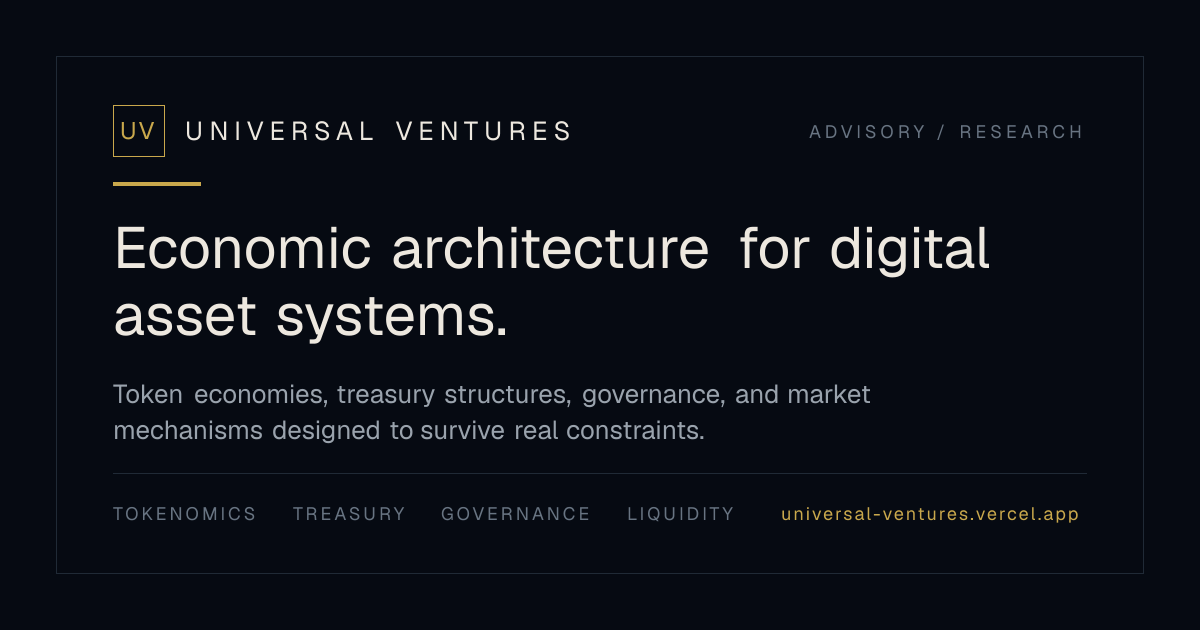
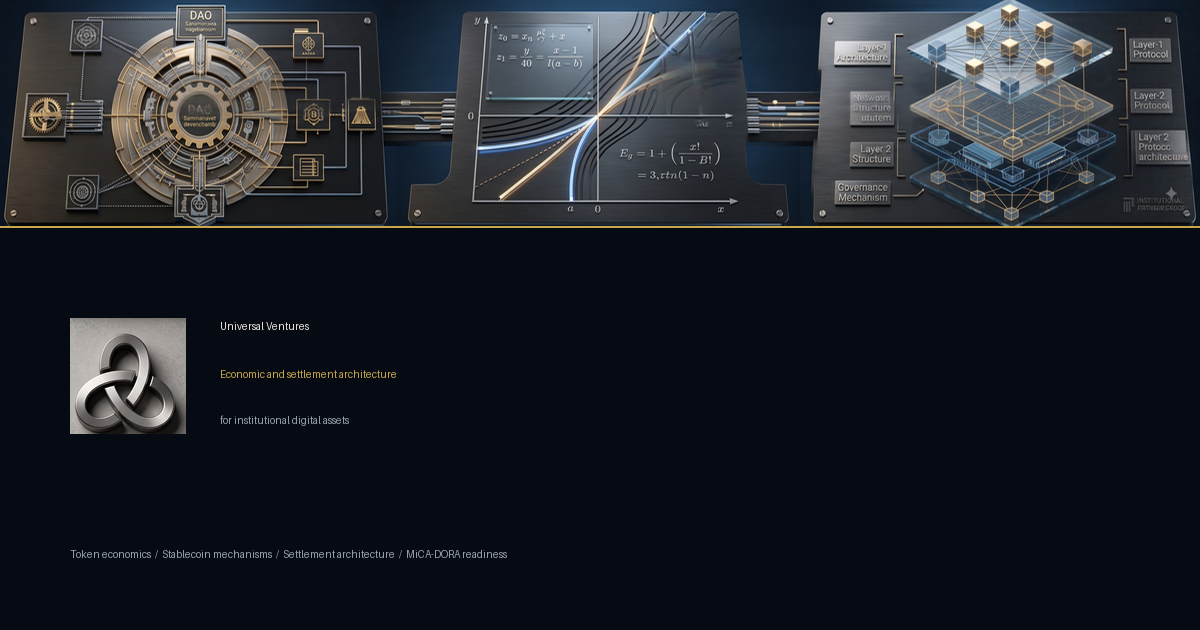
Rebrand Universal Ventures site assets

diff --git a/app/layout.tsx b/app/layout.tsx
@@ -27,11 +27,13 @@ const jetBrainsMono = JetBrains_Mono({
 });
 
 const basePath = process.env.PAGES_BASE_PATH || "";
+const normalizedSiteUrl = siteConfig.url.replace(/\/$/, "");
+const ogImageUrl = `${normalizedSiteUrl}/og-image.png`;
 
 export const metadata: Metadata = {
   metadataBase: new URL(siteConfig.url),
   title: {
-    default: `${siteConfig.name} — Economic & Settlement Architecture for Institutional Digital Assets`,
+    default: `${siteConfig.name} - Economic & Settlement Architecture for Institutional Digital Assets`,
     template: `%s | ${siteConfig.name}`,
   },
   description: siteConfig.description,
@@ -57,7 +59,7 @@ export const metadata: Metadata = {
     "token due diligence",
   ],
   openGraph: {
-    title: `${siteConfig.name} — Economic & Settlement Architecture for Institutional Digital Assets`,
+    title: `${siteConfig.name} - Economic & Settlement Architecture for Institutional Digital Assets`,
     description: siteConfig.description,
     url: siteConfig.url,
     siteName: siteConfig.name,
@@ -65,18 +67,18 @@ export const metadata: Metadata = {
     locale: "en_US",
     images: [
       {
-        url: `${basePath}/og-image.png`,
+        url: ogImageUrl,
         width: 1200,
         height: 630,
-        alt: "Universal Ventures — Economic and settlement architecture for institutional digital assets",
+        alt: "Universal Ventures systems architecture cover image",
       },
     ],
   },
   twitter: {
     card: "summary_large_image",
-    title: `${siteConfig.name} — Economic & Settlement Architecture for Institutional Digital Assets`,
+    title: `${siteConfig.name} - Economic & Settlement Architecture for Institutional Digital Assets`,
     description: siteConfig.description,
-    images: [`${basePath}/og-image.png`],
+    images: [ogImageUrl],
   },
   icons: {
     icon: `${basePath}/icon.svg`,
@@ -94,7 +96,7 @@ function StructuredData() {
         name: siteConfig.name,
         url: siteConfig.url,
         description: siteConfig.description,
-        logo: `${siteConfig.url}/icon.svg`,
+        logo: `${siteConfig.url}/brand/universal-ventures-mark.png`,
         sameAs: socialLinks.map((link) => link.href),
         founder: {
           "@type": "Person",
@@ -171,7 +173,7 @@ export default function RootLayout({
           Skip to content
         </a>
         <div className="flex min-h-screen flex-col">
-          <Navigation />
+          <Navigation assetBasePath={basePath} />
           <main id="main-content" className="flex-1 pt-16">
             {children}
           </main>

diff --git a/app/page.tsx b/app/page.tsx
@@ -1,4 +1,5 @@
 import Link from "next/link";
+import { HeroBrandPlate } from "@/components/brand-visuals";
 import {
   ArtifactInfrastructure,
   BuyerOutcomes,
@@ -10,13 +11,14 @@ import {
   WhySystemsBreak,
 } from "@/components/evidence-sections";
 import { HeroSystemMap } from "@/components/system-visuals";
+import { assetPath } from "@/lib/asset-path";
 import { heroBrief, positioning } from "@/lib/content-model";
 
 export default function Home() {
   return (
     <>
       <section className="border-b border-line bg-surface-muted/45">
-        <div className="mx-auto grid min-h-[calc(100vh-7rem)] max-w-6xl gap-12 px-6 py-16 md:grid-cols-[0.9fr_1.1fr] md:items-center md:px-10 md:py-20 lg:px-16">
+        <div className="mx-auto grid min-h-[calc(100vh-7rem)] max-w-6xl gap-12 px-6 py-16 md:grid-cols-[0.9fr_1.1fr] md:items-start md:px-10 md:py-20 lg:px-16">
           <div>
             <p className="font-mono text-xs uppercase tracking-[0.18em] text-accent">
               Economic &amp; Settlement Architecture for Institutional Digital Assets
@@ -27,7 +29,17 @@ export default function Home() {
             <p className="mt-8 max-w-2xl text-xl leading-8 text-muted md:text-2xl md:leading-9">
               {positioning.subheadline}
             </p>
+          </div>
 
+          <div className="grid gap-4 md:row-span-2 md:self-center">
+            <HeroBrandPlate
+              coverSrc={assetPath("/brand/universal-ventures-cover.jpg")}
+              markSrc={assetPath("/brand/universal-ventures-mark.png")}
+            />
+            <HeroSystemMap />
+          </div>
+
+          <div>
             <div className="mt-8 grid gap-3">
               {heroBrief.map((item) => (
                 <div key={item.label} className="grid gap-2 border-t border-line pt-3 sm:grid-cols-[5rem_1fr]">
@@ -65,8 +77,6 @@ export default function Home() {
               </Link>
             </div>
           </div>
-
-          <HeroSystemMap />
         </div>
       </section>
 

diff --git a/components/Navigation.tsx b/components/Navigation.tsx
@@ -1,10 +1,13 @@
 "use client";
 
+import Image from "next/image";
 import Link from "next/link";
 import { ThemeToggle } from "@/components/theme-toggle";
 import { navItems, siteConfig } from "@/lib/site";
 
-export function Navigation() {
+export function Navigation({ assetBasePath = "" }: { assetBasePath?: string }) {
+  const brandMark = `${assetBasePath}/brand/universal-ventures-mark.png`;
+
   return (
     <header className="fixed inset-x-0 top-0 z-50 h-16 border-b border-line bg-background/90 backdrop-blur-xl">
       <div className="mx-auto flex h-full max-w-7xl items-center gap-5 px-5 md:px-8 lg:px-12">
@@ -13,11 +16,23 @@ export function Navigation() {
           className="flex min-w-0 shrink-0 items-center gap-3 no-underline"
           aria-label={`${siteConfig.name} home`}
         >
-          <span className="flex h-8 w-8 items-center justify-center border border-accent font-mono text-[0.66rem] font-semibold text-accent">
-            UV
+          <span className="flex h-8 w-8 overflow-hidden border border-accent/70 bg-surface">
+            <Image
+              src={brandMark}
+              alt=""
+              aria-hidden="true"
+              width={512}
+              height={512}
+              className="h-full w-full object-cover"
+            />
           </span>
-          <span className="hidden text-sm font-semibold tracking-normal text-foreground sm:block">
-            {siteConfig.name}
+          <span className="hidden grid-cols-1 leading-none sm:grid">
+            <span className="text-sm font-semibold tracking-normal text-foreground">
+              {siteConfig.name}
+            </span>
+            <span className="mt-1 font-mono text-[0.56rem] uppercase tracking-[0.14em] text-subtle">
+              Economic architecture
+            </span>
           </span>
         </Link>
 

diff --git a/components/site-footer.tsx b/components/site-footer.tsx
@@ -1,17 +1,31 @@
+import Image from "next/image";
 import Link from "next/link";
+import { assetPath } from "@/lib/asset-path";
 import { navItems, siteConfig, socialLinks } from "@/lib/site";
 
 export function SiteFooter() {
   return (
     <footer className="border-t border-line bg-surface text-foreground">
       <div className="mx-auto grid max-w-7xl gap-12 px-6 py-14 md:grid-cols-[1fr_1fr] md:px-10 lg:px-16">
-        <div>
-          <p className="font-serif text-3xl font-medium">{siteConfig.name}</p>
-          <p className="mt-4 max-w-md text-sm leading-6 text-muted">
-            Economic and settlement architecture for institutional digital
-            asset systems — token economics, stablecoin mechanisms, and
-            MiCA/DORA readiness.
-          </p>
+        <div className="grid gap-5 sm:grid-cols-[auto_1fr]">
+          <Image
+            src={assetPath("/brand/universal-ventures-logo.jpg")}
+            alt="Universal Ventures logo"
+            width={960}
+            height={960}
+            className="h-24 w-24 border border-line object-cover"
+          />
+          <div>
+            <p className="font-serif text-3xl font-medium">{siteConfig.name}</p>
+            <p className="mt-3 font-mono text-[0.65rem] uppercase tracking-[0.16em] text-accent">
+              Economic architecture practice
+            </p>
+            <p className="mt-4 max-w-md text-sm leading-6 text-muted">
+              Economic and settlement architecture for institutional digital
+              asset systems: token economics, stablecoin mechanisms, and
+              MiCA/DORA readiness.
+            </p>
+          </div>
         </div>
         <div className="grid gap-8 sm:grid-cols-2">
           <nav aria-label="Footer navigation" className="grid gap-2">

diff --git a/components/brand-visuals.tsx b/components/brand-visuals.tsx
@@ -1,0 +1,44 @@
+import Image from "next/image";
+
+export function HeroBrandPlate({
+  coverSrc,
+  markSrc,
+}: {
+  coverSrc: string;
+  markSrc: string;
+}) {
+  return (
+    <div className="overflow-hidden border border-line bg-surface shadow-sm shadow-black/20">
+      <div className="relative">
+        <Image
+          src={coverSrc}
+          alt="Universal Ventures systems architecture cover image"
+          width={2400}
+          height={397}
+          priority
+          className="h-36 w-full object-cover sm:h-44 md:h-48"
+        />
+        <div className="absolute inset-0 bg-gradient-to-r from-background/10 via-transparent to-background/20" />
+      </div>
+      <div className="grid gap-5 border-t border-accent/70 bg-background/92 p-4 sm:grid-cols-[auto_1fr] sm:items-center">
+        <Image
+          src={markSrc}
+          alt=""
+          aria-hidden="true"
+          width={512}
+          height={512}
+          className="h-16 w-16 border border-line object-cover"
+        />
+        <div>
+          <p className="font-mono text-xs uppercase tracking-[0.16em] text-accent">
+            Universal Ventures
+          </p>
+          <p className="mt-2 text-sm leading-6 text-muted">
+            Institutional systems analysis for token economics, settlement
+            architecture, governance, liquidity, and market pressure.
+          </p>
+        </div>
+      </div>
+    </div>
+  );
+}

diff --git a/lib/site.ts b/lib/site.ts
@@ -1,6 +1,12 @@
+const pagesBasePath = process.env.PAGES_BASE_PATH || "";
+
+const defaultSiteUrl = pagesBasePath
+  ? `https://vishnugovind10.github.io${pagesBasePath}`
+  : "https://universal-ventures.vercel.app";
+
 export const siteConfig = {
   name: "Universal Ventures",
-  url: process.env.NEXT_PUBLIC_SITE_URL ?? "https://universal-ventures.vercel.app",
+  url: process.env.NEXT_PUBLIC_SITE_URL ?? defaultSiteUrl,
   description:
     "Independent practice designing and stress-testing token economics, stablecoin mechanisms and settlement architecture for institutions, protocols and funds. MiCA/DORA readiness diagnostics. Eleven open-source verification tools.",
 };

diff --git a/app/about/page.tsx b/app/about/page.tsx
@@ -150,12 +150,12 @@ export default function AboutPage() {
             </div>
 
             <div className="mt-10 grid gap-3 border-t border-line pt-8 sm:flex sm:flex-wrap sm:items-center">
-              <a
-                href="mailto:vishnugovind10@gmail.com"
+              <Link
+                href="/contact"
                 className="font-mono text-xs text-muted no-underline hover:text-accent"
               >
-                vishnugovind10@gmail.com
-              </a>
+                Contact form
+              </Link>
               {socialLinks.map((link) => (
                 <a
                   key={link.href}

diff --git a/lib/asset-path.ts b/lib/asset-path.ts
@@ -1,0 +1,6 @@
+const rawBasePath = process.env.PAGES_BASE_PATH || "";
+
+export function assetPath(path: string) {
+  const normalizedPath = path.startsWith("/") ? path : `/${path}`;
+  return `${rawBasePath}${normalizedPath}`;
+}
